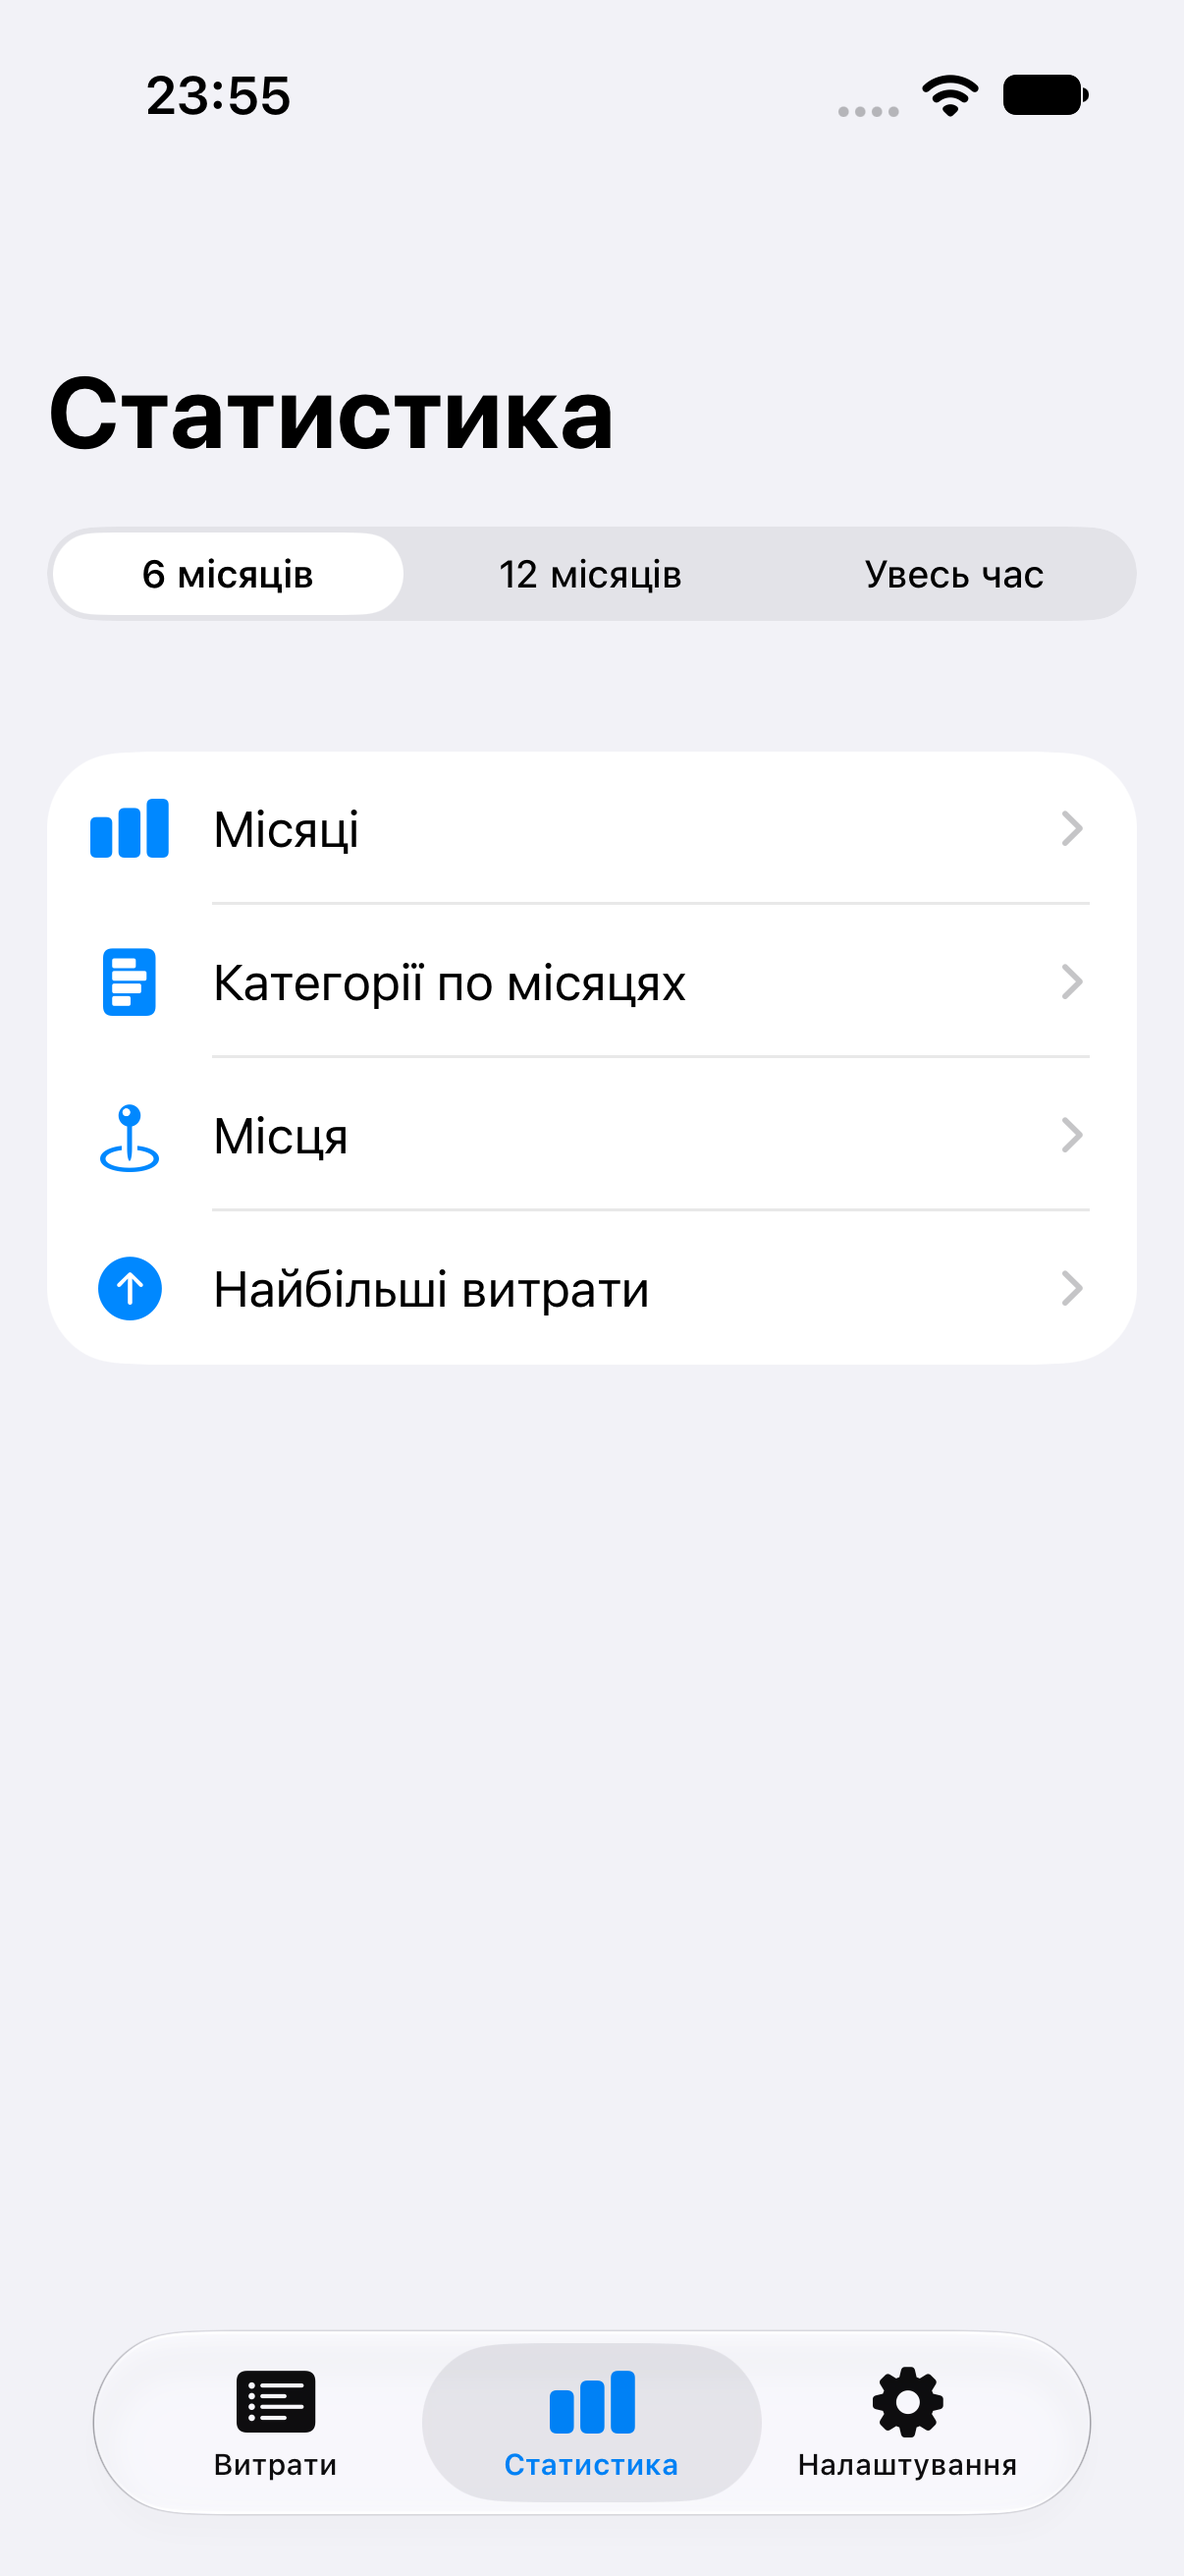
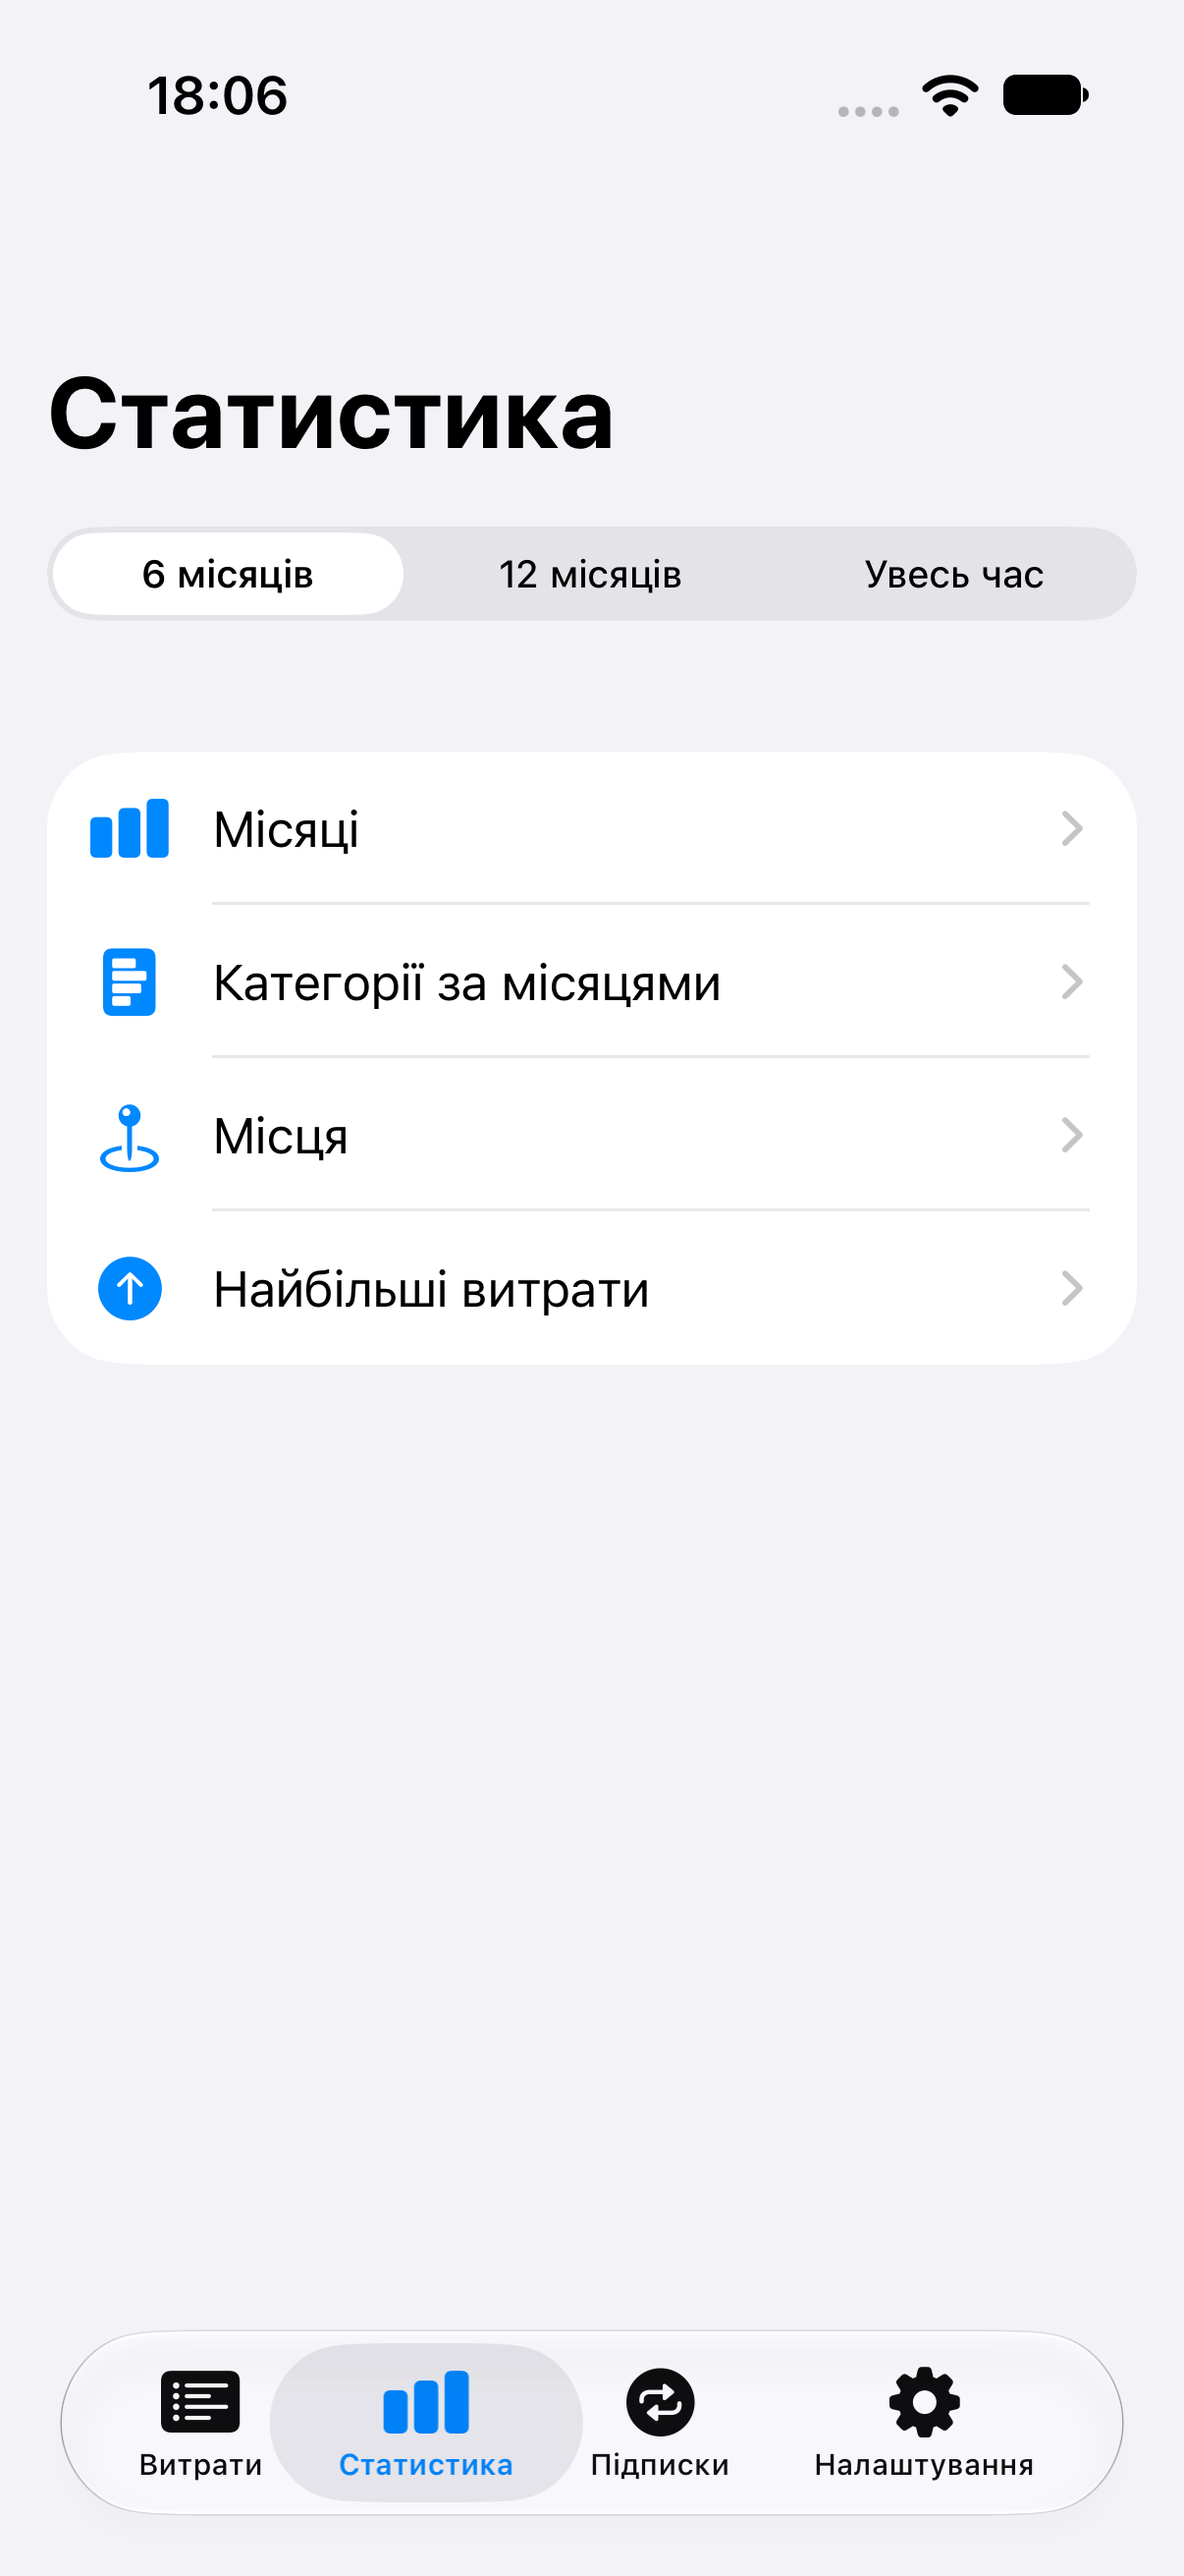
Docs: fresh README screenshots incl. receipt scan and widget

diff --git a/README.md b/README.md
@@ -33,7 +33,7 @@
 Тобто весь застосунок — це база, кілька екранів, два App Intent (**Додати витрату**, **Сканувати чек**) і віджет.
 Решту робить система.
 
-![головний екран](docs/screen-main.png) ![статистика](docs/screen-statistics.png)
+![головний екран](docs/screen-main.png) ![статистика](docs/screen-statistics.png) ![скан чека](docs/screen-receipt.png) ![віджет](docs/screen-widget.png)
 
 ## Стан
 
